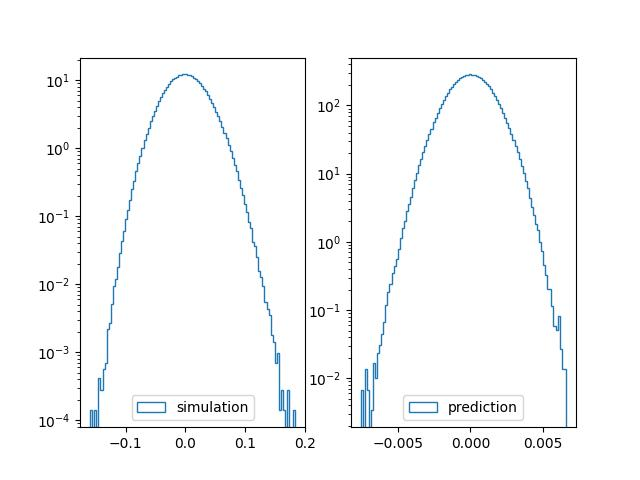
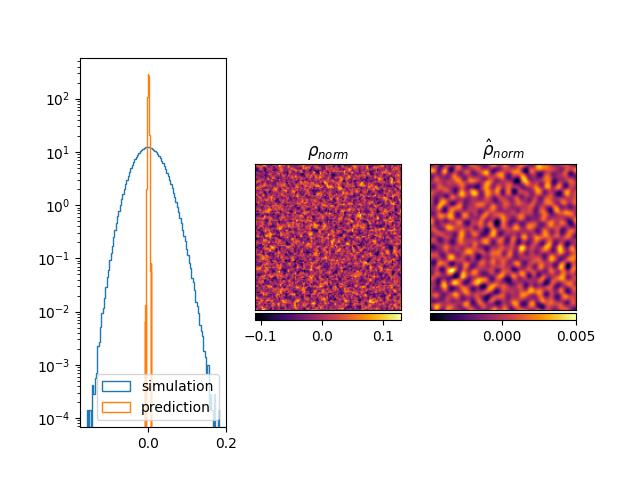
high modes

diff --git a/src/visualize/modes.py b/src/visualize/modes.py
@@ -89,7 +89,7 @@ def modes(
 
     # Create figure
     fig = plt.figure(layout='constrained', figsize=(10, 4),  constrained_layout=True)
-    fig, (ax1, ax2) = plt.subplots(1, 2)
+    fig, (ax1, ax2, ax3) = plt.subplots(1, 3)
     # Mask out lower wavelengths
     mask = (k_squared >= cutoff_k_squared)[:, :, :, None]
     # mask = k_squared <= cutoff_k_squared
@@ -106,9 +106,8 @@ def modes(
         histtype="step",
         cumulative=False, 
         label=fr'simulation')
-    ax1.legend()
 
-    ax2.hist(
+    ax1.hist(
         norm_pred_filtered.flatten(),
         100, 
         density=True, 
@@ -116,8 +115,24 @@ def modes(
         histtype="step",
         cumulative=False, 
         label=fr'prediction')
-    ax2.legend()
+    ax1.legend()
     # plot cdf 
+
+    ax2.set_title(r'$\rho_{norm}$')
+    ax2.tick_params(left=False, bottom=False, labelleft=False, labelbottom=False)
+    im_seq = ax2.imshow(norm_filtered[N//2], cmap='inferno')
+    # im_seq = ax_seq.imshow(norm_filtered[grid_size // 2, :, :], cmap='inferno')
+    divider = make_axes_locatable(ax2)
+    cax = divider.append_axes('bottom', size='5%', pad=0.03)
+    fig.colorbar(im_seq, cax=cax, orientation='horizontal')
+
+    ax3.set_title(r'$\hat{\rho}_{norm}$')
+    ax3.tick_params(left=False, bottom=False, labelleft=False, labelbottom=False)
+    im_seq = ax3.imshow(norm_pred_filtered[N//2], cmap='inferno')
+    # im_seq = ax_seq.imshow(norm_filtered[grid_size // 2, :, :], cmap='inferno')
+    divider = make_axes_locatable(ax3)
+    cax = divider.append_axes('bottom', size='5%', pad=0.03)
+    fig.colorbar(im_seq, cax=cax, orientation='horizontal')
 
 
     plt.savefig("img/high_modes.jpg")
